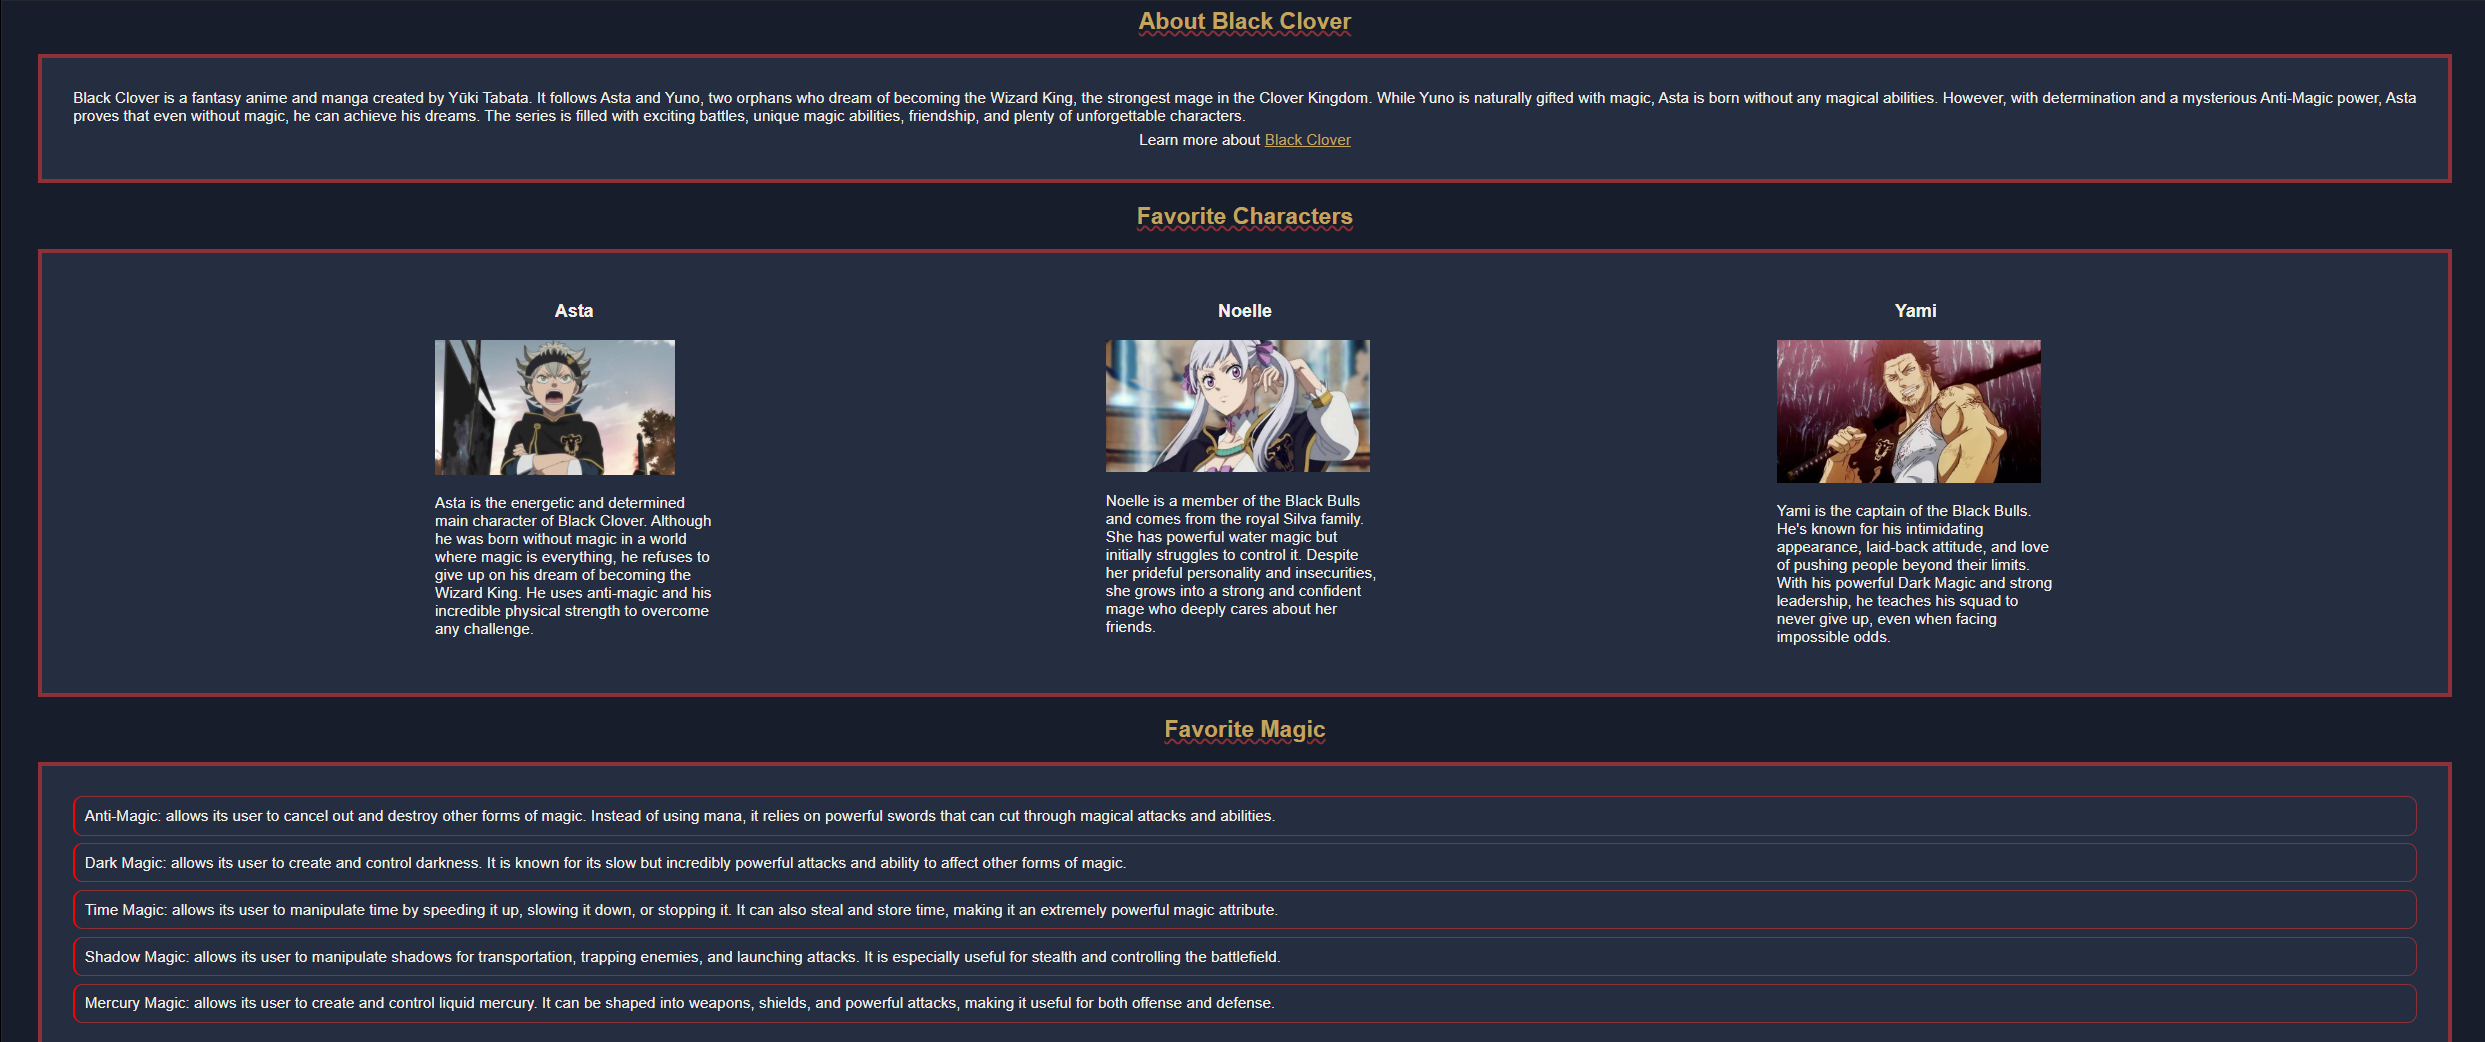
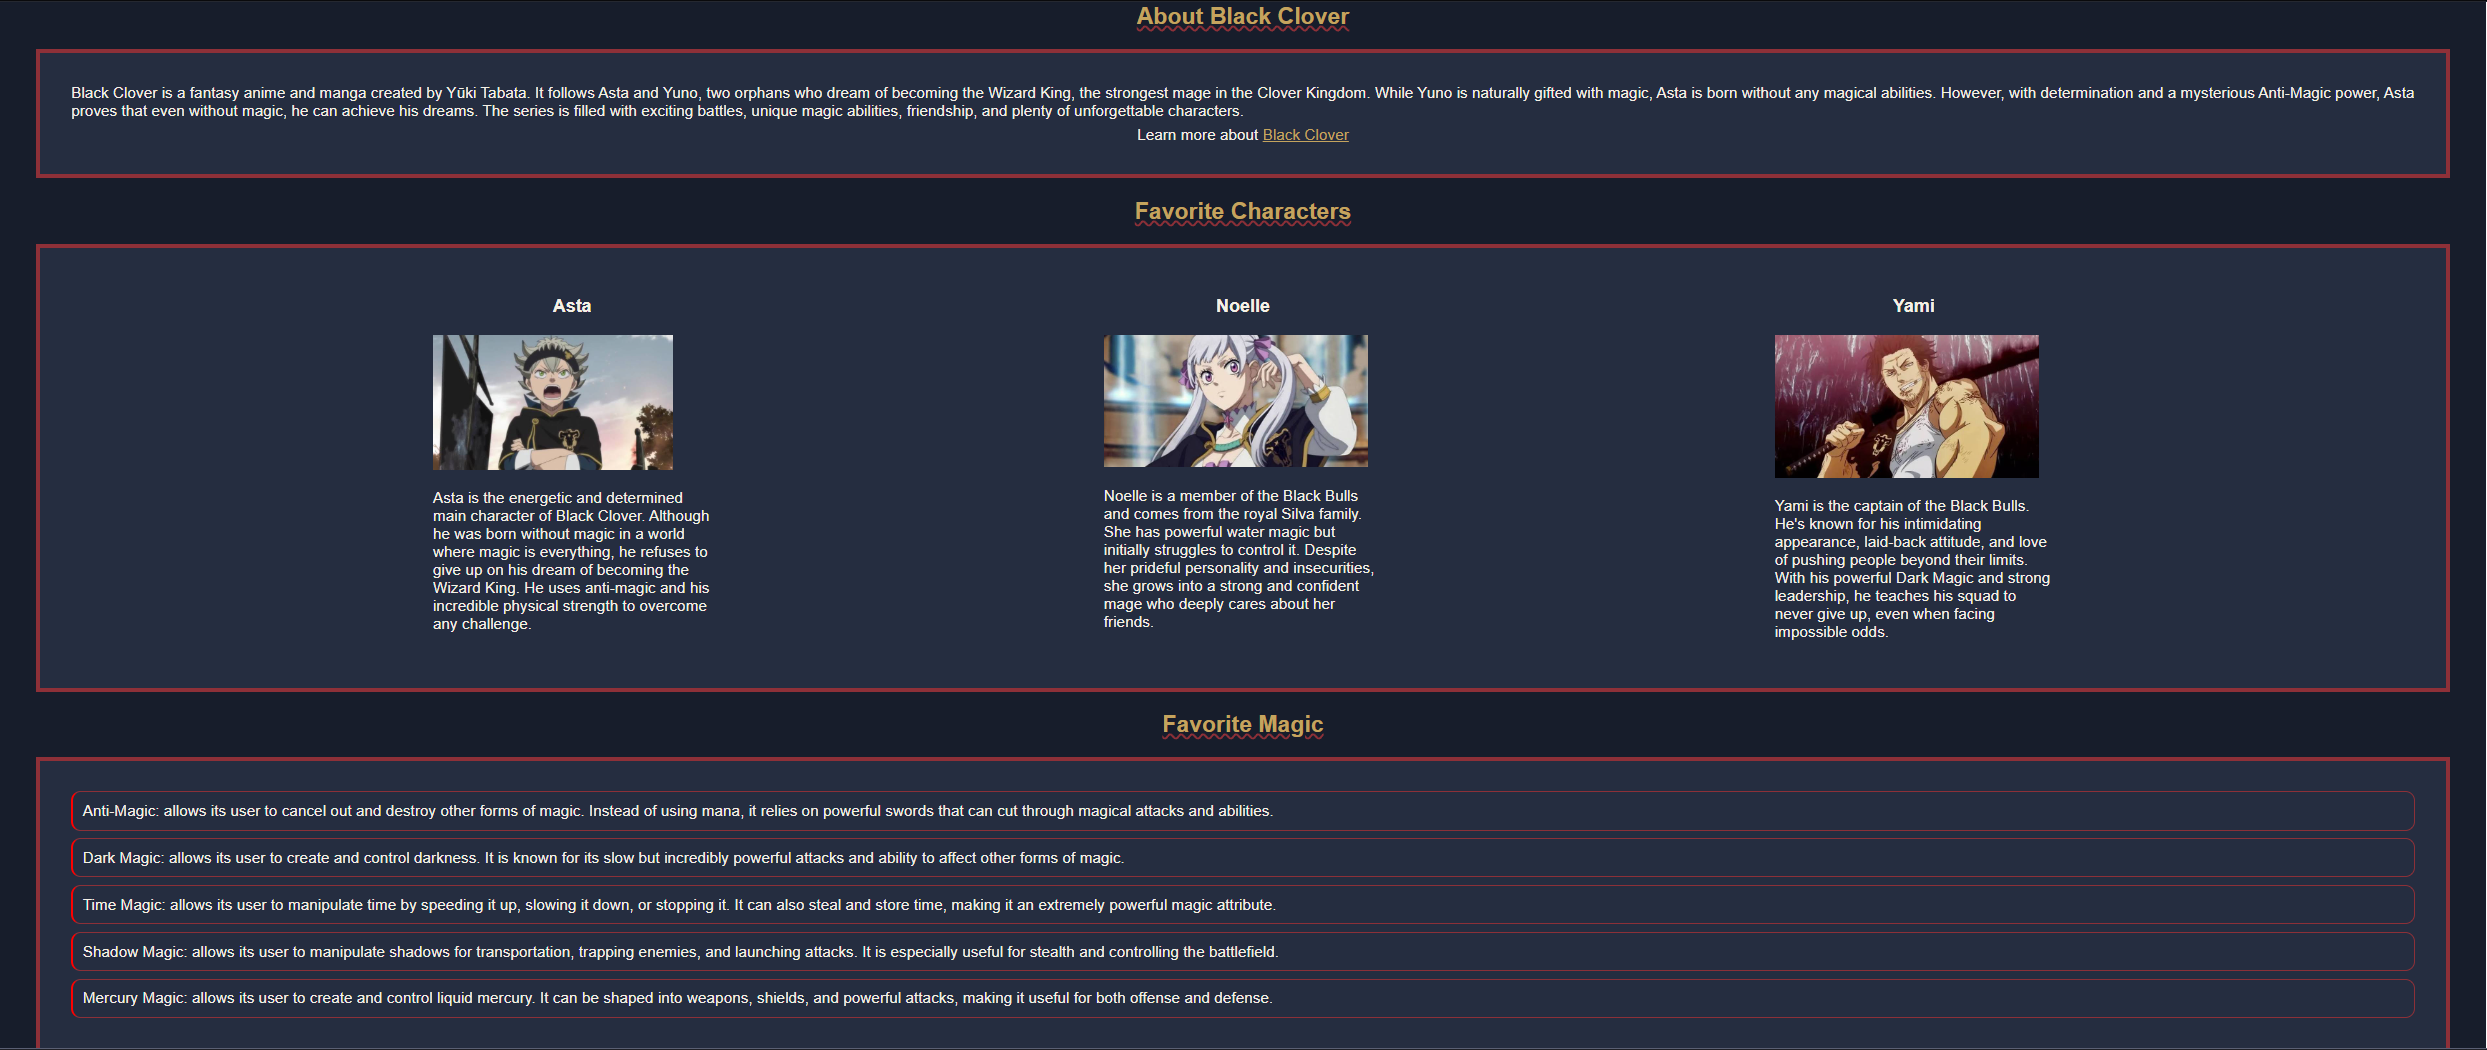
added more css, added AI statement and contact to footer
changed some css, added AI statement to footer with contact information like email and link to github

diff --git a/styles.css b/styles.css
@@ -13,9 +13,12 @@ soft walnut: #A8957B
 body {
     background-color: #F5F3ED;
     color: #344E41;
+    min-height: 100vh;
+    display: flex;
+    flex-direction: column;
 }
 
-header, footer {
+header {
     background-color: #344E41;
     color: #F5F3ED;
     display: flex;
@@ -42,7 +45,8 @@ nav ul {
     margin: 0;
     padding: 0;
     display: flex;
-    justify-content: space-around;
+    justify-content: center;
+    gap: 1rem;
 }
 
 h2 {
@@ -62,14 +66,24 @@ main {
     max-width: 85vw;
     margin: 0 auto;
     padding: 1rem;
+    flex: 1;
+    display: grid;
+    grid-template-columns: 1fr;
 }
 
 section {
     background-color: #CAD2C5;
     padding: 1rem;
-    margin-bottom: 2rem;
+    margin-bottom: 3rem;
     border-radius: 8px;
     border: 2.75px solid #a8957b;
+}
+
+footer{
+background-color: #344E41;
+    color: #F5F3ED;
+    justify-content: center;
+    text-align: center;
 }
 
 .home-card {
@@ -140,4 +154,17 @@ section {
     background-color: #344E41;
 }
 
+@media (min-width: 768px) {
+    .home-cards {
+        grid-template-columns: 1fr 1fr 1fr;
+    }
+
+    .project-cards {
+        grid-template-columns: 1fr 1fr;
+    }
+
+    nav ul {
+        gap: 5rem;
+    }
+}
 

diff --git a/about.html b/about.html
@@ -1,9 +1,9 @@
-<!doctype html>
+<!DOCTYPE html>
 <html lang="en">
-  <head>
-    <meta charset="UTF-8" />
-    <meta name="viewport" content="width=device-width, initial-scale=1.0" />
-    <link rel="stylesheet" href="styles.css" />
+<head>
+  <meta charset="UTF-8">
+  <meta name="viewport" content="width=device-width, initial-scale=1.0">
+  <link rel="stylesheet" href="styles.css">
     <title>About Me</title>
   </head>
   <body>
@@ -54,6 +54,9 @@
     </main>
     <footer>
       <p>Built by Desiree Cheuvront</p>
+      <p>Contact: dcheuvro@asu.edu</p>
+      <p>GitHub: <a href="https://github.com/dcheuvront">https://github.com/dcheuvront</a></p>
+      <p>Portions of the written content for this website were generated with the assistance of ChatGPT and were reviewed and edited by the student. All HTML and CSS were written by the student.</p>
     </footer>
   </body>
 </html>

diff --git a/learning.html b/learning.html
@@ -67,6 +67,9 @@
     </main>
     <footer>
       <p>Built by Desiree Cheuvront</p>
+      <p>Contact: dcheuvro@asu.edu</p>
+      <p>GitHub: <a href="https://github.com/dcheuvront">https://github.com/dcheuvront</a></p>
+      <p>Portions of the written content for this website were generated with the assistance of ChatGPT and were reviewed and edited by the student. All HTML and CSS were written by the student.</p>
     </footer>
   </body>
 </html>

diff --git a/projects.html b/projects.html
@@ -75,6 +75,9 @@
     </main>
     <footer>
       <p>Built by Desiree Cheuvront</p>
+      <p>Contact: dcheuvro@asu.edu</p>
+      <p>GitHub: <a href="https://github.com/dcheuvront">https://github.com/dcheuvront</a></p>
+      <p>Portions of the written content for this website were generated with the assistance of ChatGPT and were reviewed and edited by the student. All HTML and CSS were written by the student.</p>
     </footer>
   </body>
 </html>

diff --git a/index.html b/index.html
@@ -71,6 +71,9 @@
     </main>
     <footer>
       <p>Built by Desiree Cheuvront</p>
+      <p>Contact: dcheuvro@asu.edu</p>
+      <p>GitHub: <a href="https://github.com/dcheuvront">https://github.com/dcheuvront</a></p>
+      <p>Portions of the written content for this website were generated with the assistance of ChatGPT and were reviewed and edited by the student. All HTML and CSS were written by the student.</p>
     </footer>
 </body>
 </html>
